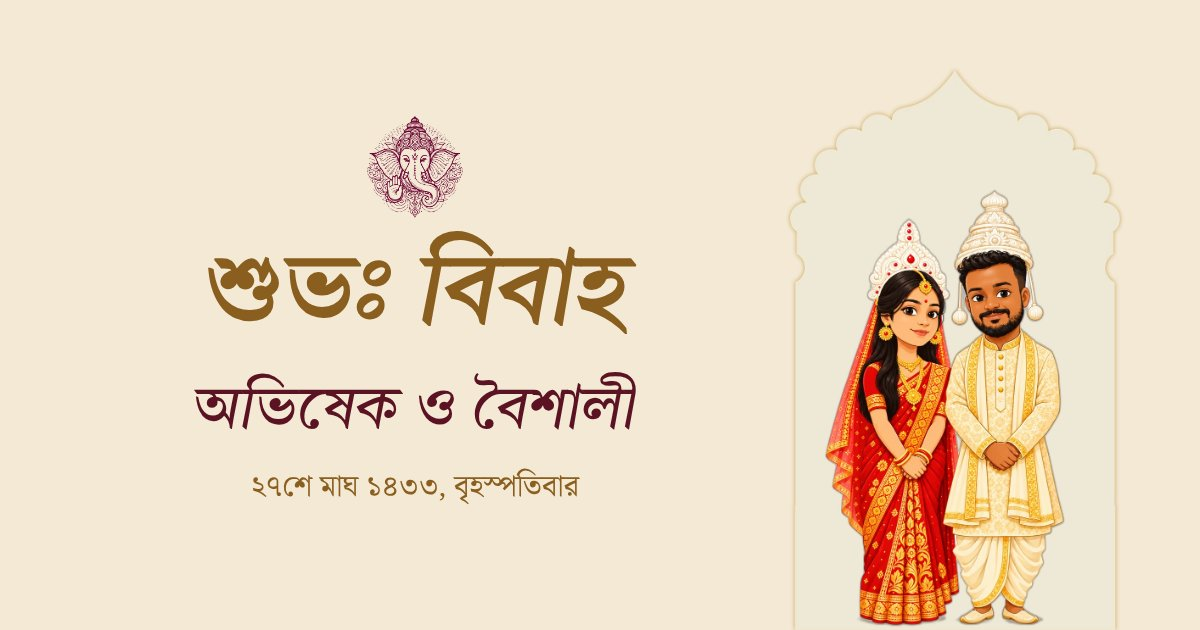
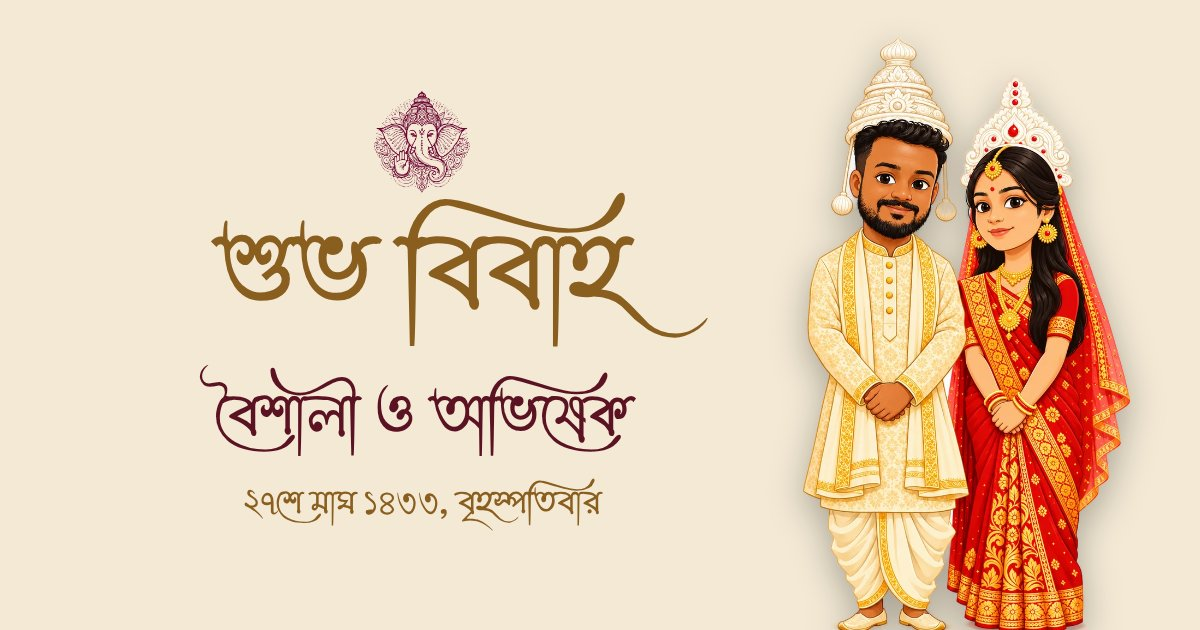
Review round 3: wording, dates, new couple picture, petal showers, seal burst
- শুভঃ → শুভ, আমার → আমাদের, new quote, বিবাহলগ্ন / Bibaha Lagna
- English shows the English date first, Bengali in brackets (and vice versa)
- প্রীতিভোজ = Banquet; bride card: বিবাহবাসর ও প্রীতিভোজ, বৈশালী ও অভিষেক
- Couple picture with groom left, bride right
- Seal tap: press, flash, sparkle and petal burst; petal shower again at the family panel
- Bride card: no glow at the top

Claude-Session: https://claude.ai/code/session_01A7U3bhfqdo6UgM5ft2nzAm

diff --git a/app.js b/app.js
@@ -11,13 +11,13 @@
       openHint: "সিলমোহরে ছুঁয়ে খুলুন",
       ganesh: "ওঁ শ্রী গণেশায় নমঃ",
       prajapati: "শ্রী শ্রী প্রজাপতয়ে নমঃ",
-      occasion: "শুভঃ বিবাহ",
+      occasion: "শুভ বিবাহ",
       familyTitle: "যাদের জন্য বাজবে সানাই&nbsp;।।",
       kalyaniyo: "কল্যাণীয়", kalyaniya: "কল্যাণীয়া",
       father: "পিতা", mother: "মাতা", brother: "ভ্রাতা",
       groomName: "অভিষেক দাস", groomFather: "শ্রী রবীন্দ্র নাথ দাস", groomMother: "শ্রীমতী অনিতা দাস",
       brideName: "বৈশালী কর", brideFather: "শ্রী বাবন কর", brideMother: "শ্রীমতী শিউলি কর", brideBrother: "কৌশিক কর",
-      quote: "দুটি প্রাণের মিলনে গড়বে নতুন পথ চলা,<br>হাসি আনন্দে ভরে উঠুক প্রতিটি দোলা।",
+      quote: "দুটি প্রাণের মিলনে গড়বে নতুন পথচলা,<br>হাসি আনন্দে ভরে উঠুক জীবনের প্রতিটি বেলা।",
       salutation: "সবিনয় নিবেদন,",
       nibedak: "নিবেদক",
       ritualTitle: "শুভ বিবাহের মুহূর্ত", rShubho: "শুভদৃষ্টি", rMala: "মালাবদল", rYagna: "সাত পাক ও যজ্ঞ", rSindoor: "সিঁদুর দান",
@@ -98,10 +98,17 @@
   function openInvitation() {
     if (opened) return;
     opened = true;
-    var steps = reduceMotion ? [0, 0, 0, 0] : [0, 380, 760, 1900];
+    var steps = reduceMotion ? [0, 0, 0, 0] : [160, 560, 940, 2100];
     document.getElementById("stage").classList.add("is-leaving");
     startMusic();
-    setTimeout(function () { envelope.classList.add("is-opening"); }, steps[0]);
+    try { if (navigator.vibrate) navigator.vibrate(15); } catch (e) {}
+    envelope.classList.add("is-pressed");
+    setTimeout(function () {
+      envelope.classList.remove("is-pressed");
+      envelope.classList.add("is-opening");
+      var r = envelope.querySelector(".seal").getBoundingClientRect();
+      if (window.FX) FX.burst(r.left + r.width / 2, r.top + r.height / 2, 1);
+    }, steps[0]);
     setTimeout(function () { envelope.classList.add("flap-behind"); }, steps[1]);
     setTimeout(function () { envelope.classList.add("card-out"); }, steps[2]);
     setTimeout(function () {
@@ -109,7 +116,7 @@
       document.body.classList.add("is-open");
       document.getElementById("card").removeAttribute("aria-hidden");
       window.scrollTo(0, 0);
-      petalShower();
+      if (window.FX) FX.shower(70);
       sizeCoin();
       document.getElementById("music").hidden = false;
       startReveals();
@@ -159,24 +166,6 @@
     if (document.hidden) bgm.pause(); else play();
   });
 
-  /* ---------------- Petals (once, on open) ---------------- */
-  function petalShower() {
-    if (reduceMotion) return;
-    var box = document.getElementById("petals");
-    var colors = ["#F2A93B", "#E8862A", "#C9A04E", "#A3182F", "#F6C451"];
-    for (var i = 0; i < 34; i++) {
-      var p = document.createElement("span");
-      p.className = "petal";
-      p.style.left = Math.random() * 100 + "vw";
-      p.style.background = colors[i % colors.length];
-      p.style.setProperty("--d", 5 + Math.random() * 4 + "s");
-      p.style.setProperty("--x", (Math.random() - 0.5) * 140 + "px");
-      p.style.setProperty("--r", 300 + Math.random() * 500 + "deg");
-      p.style.animationDelay = Math.random() * 1.6 + "s";
-      box.appendChild(p);
-    }
-    setTimeout(function () { box.innerHTML = ""; }, 11000);
-  }
 
   /* ---------------- Scroll reveals (each section once) ---------------- */
   var countedUp = false;
@@ -192,6 +181,7 @@
         en.target.classList.add("in");
         io.unobserve(en.target);
         if (en.target.id === "countdown") countUp();
+        if (en.target.classList.contains("family") && window.FX) FX.shower(36);
       });
     }, { threshold: 0.1, rootMargin: "0px 0px -50px 0px" });
     els.forEach(function (el) { io.observe(el); });
@@ -259,7 +249,7 @@
     var data = ctx.getImageData(0, 0, canvas.width, canvas.height).data;
     var step = Math.max(4, Math.round(6 * dpr)), cw = canvas.width, ch = canvas.height, total = 0, clear = 0;
     for (var y = 0; y < ch; y += step) for (var x = 0; x < cw; x += step) { total++; if (data[(y * cw + x) * 4 + 3] < 40) clear++; }
-    if (total && clear / total > 0.5) { revealed = true; box.classList.add("is-revealed"); burst(); }
+    if (total && clear / total > 0.5) { revealed = true; box.classList.add("is-revealed"); var br = box.getBoundingClientRect(); if (window.FX) FX.burst(br.left + br.width / 2, br.top + br.height / 2, .7); }
   }
   function pos(e) { var b = canvas.getBoundingClientRect(); return { x: e.clientX - b.left, y: e.clientY - b.top }; }
   var drawing = false;
@@ -277,25 +267,6 @@
   });
   window.addEventListener("resize", sizeCoin);
 
-  function burst() {
-    if (reduceMotion) return;
-    var b = box.getBoundingClientRect(), layer = document.getElementById("petals");
-    var colors = ["#F2A93B", "#C9A04E", "#A3182F", "#F6C451"];
-    for (var i = 0; i < 26; i++) {
-      var p = document.createElement("span");
-      p.className = "petal";
-      p.style.cssText = "top:" + (b.top + b.height / 2) + "px;left:" + (b.left + b.width / 2) + "px;background:" + colors[i % 4] +
-        ";animation:none;transition:transform 1.4s cubic-bezier(.15,.7,.3,1),opacity 1.4s";
-      layer.appendChild(p);
-      (function (el, a, d) {
-        requestAnimationFrame(function () { requestAnimationFrame(function () {
-          el.style.transform = "translate(" + Math.cos(a) * d + "px," + (Math.sin(a) * d + 60) + "px) rotate(" + (a * 300) + "deg)";
-          el.style.opacity = "0";
-        }); });
-        setTimeout(function () { el.remove(); }, 1600);
-      })(p, Math.random() * Math.PI * 2, 90 + Math.random() * 110);
-    }
-  }
 
   /* ---------------- Countdown ---------------- */
   var target = new Date(W.event.countdownTo).getTime();

diff --git a/fx.js b/fx.js
@@ -1,0 +1,123 @@
+/* Petals and sparkles on one full-screen canvas.
+   FX.shower(count)  – petals drifting down from the top
+   FX.burst(x, y, k) – sparkles + petals flying out from a point (viewport px) */
+(function () {
+  "use strict";
+  var reduce = window.matchMedia("(prefers-reduced-motion: reduce)").matches;
+  var cv = document.createElement("canvas");
+  cv.className = "fx";
+  cv.setAttribute("aria-hidden", "true");
+  document.addEventListener("DOMContentLoaded", function () { document.body.appendChild(cv); });
+  var ctx = cv.getContext("2d"), dpr = 1, W = 0, H = 0, parts = [], running = false, last = 0;
+
+  function size() {
+    dpr = Math.min(window.devicePixelRatio || 1, 2);
+    W = window.innerWidth; H = window.innerHeight;
+    cv.width = W * dpr; cv.height = H * dpr;
+    ctx.setTransform(dpr, 0, 0, dpr, 0, 0);
+  }
+  size();
+  window.addEventListener("resize", size);
+
+  // marigold (orange, yellow), red rose, white rajanigandha
+  var KINDS = [
+    { w: 1, a: "#F7A21B", b: "#E06A0E", shape: "marigold" },
+    { w: 1, a: "#FFD34E", b: "#F0A20E", shape: "marigold" },
+    { w: .8, a: "#D6243A", b: "#8E1022", shape: "rose" },
+    { w: .45, a: "#FFFDF6", b: "#E9E1CC", shape: "rose" }
+  ];
+  function pick() {
+    var t = 0, r = Math.random() * 3.25;
+    for (var i = 0; i < KINDS.length; i++) { t += KINDS[i].w; if (r <= t) return KINDS[i]; }
+    return KINDS[0];
+  }
+  function petal(x, y, vx, vy, delay) {
+    var k = pick();
+    parts.push({ t: "p", k: k, x: x, y: y, vx: vx, vy: vy, s: 6 + Math.random() * 7,
+      rot: Math.random() * 6.28, vr: (Math.random() - .5) * 3, flip: Math.random() * 6.28, vf: 2 + Math.random() * 4,
+      sway: Math.random() * 6.28, life: 0, max: 7 + Math.random() * 4, delay: delay || 0 });
+  }
+  function sparkle(x, y, vx, vy) {
+    parts.push({ t: "s", x: x, y: y, vx: vx, vy: vy, s: 3 + Math.random() * 6, life: 0, max: .7 + Math.random() * .7,
+      tw: Math.random() * 6.28, c: Math.random() < .75 ? "#FFE7A3" : "#FFFFFF", delay: 0 });
+  }
+
+  function drawPetal(p) {
+    var sc = Math.cos(p.flip);                       // 3D tumble: squash on one axis
+    ctx.save();
+    ctx.translate(p.x, p.y); ctx.rotate(p.rot); ctx.scale(1, Math.max(.15, Math.abs(sc)));
+    var g = ctx.createLinearGradient(0, -p.s, 0, p.s);
+    g.addColorStop(0, sc > 0 ? p.k.a : p.k.b); g.addColorStop(1, sc > 0 ? p.k.b : p.k.a);
+    ctx.fillStyle = g;
+    ctx.beginPath();
+    if (p.k.shape === "marigold") {                  // frilled petal
+      ctx.moveTo(0, p.s);
+      ctx.quadraticCurveTo(-p.s * .9, p.s * .2, -p.s * .55, -p.s * .7);
+      ctx.lineTo(-p.s * .25, -p.s * .45); ctx.lineTo(0, -p.s * .85); ctx.lineTo(p.s * .25, -p.s * .45);
+      ctx.lineTo(p.s * .55, -p.s * .7);
+      ctx.quadraticCurveTo(p.s * .9, p.s * .2, 0, p.s);
+    } else {                                          // rose / rajanigandha petal
+      ctx.moveTo(0, p.s);
+      ctx.bezierCurveTo(-p.s, p.s * .3, -p.s * .7, -p.s, 0, -p.s * .8);
+      ctx.bezierCurveTo(p.s * .7, -p.s, p.s, p.s * .3, 0, p.s);
+    }
+    ctx.fill();
+    ctx.restore();
+  }
+  function drawSparkle(p, alpha) {
+    var r = p.s * (.6 + .4 * Math.abs(Math.sin(p.tw)));
+    ctx.save(); ctx.translate(p.x, p.y); ctx.globalAlpha = alpha;
+    ctx.fillStyle = p.c; ctx.shadowColor = "rgba(255,210,120,.9)"; ctx.shadowBlur = 8;
+    ctx.beginPath();
+    ctx.moveTo(0, -r); ctx.quadraticCurveTo(0, 0, r, 0); ctx.quadraticCurveTo(0, 0, 0, r);
+    ctx.quadraticCurveTo(0, 0, -r, 0); ctx.quadraticCurveTo(0, 0, 0, -r);
+    ctx.fill(); ctx.restore();
+  }
+
+  function frame(now) {
+    var dt = Math.min(.05, (now - last) / 1000 || 0); last = now;
+    ctx.clearRect(0, 0, W, H);
+    for (var i = parts.length - 1; i >= 0; i--) {
+      var p = parts[i];
+      if (p.delay > 0) { p.delay -= dt; continue; }
+      p.life += dt;
+      if (p.t === "p") {
+        p.vx *= .985; p.vy += (60 - p.vy) * .6 * dt;  // settle into a gentle fall
+        p.sway += dt * 1.6;
+        p.x += (p.vx + Math.sin(p.sway) * 22) * dt; p.y += p.vy * dt;
+        p.rot += p.vr * dt; p.flip += p.vf * dt;
+        var fade = p.life > p.max - 1 ? Math.max(0, p.max - p.life) : 1;
+        ctx.globalAlpha = .95 * fade; drawPetal(p); ctx.globalAlpha = 1;
+        if (p.life > p.max || p.y > H + 30) parts.splice(i, 1);
+      } else {
+        p.vx *= .92; p.vy = p.vy * .92 + 30 * dt; p.x += p.vx * dt; p.y += p.vy * dt; p.tw += dt * 14;
+        var a = 1 - p.life / p.max;
+        if (a <= 0) { parts.splice(i, 1); continue; }
+        drawSparkle(p, a);
+      }
+    }
+    if (parts.length) requestAnimationFrame(frame); else { running = false; ctx.clearRect(0, 0, W, H); }
+  }
+  function run() { if (!running) { running = true; last = performance.now(); requestAnimationFrame(frame); } }
+
+  window.FX = {
+    shower: function (n) {
+      if (reduce) return;
+      for (var i = 0; i < n; i++) petal(Math.random() * W, -20 - Math.random() * 60, (Math.random() - .5) * 30, 40 + Math.random() * 50, Math.random() * 2.6);
+      run();
+    },
+    burst: function (x, y, k) {
+      if (reduce) return;
+      k = k || 1;
+      for (var i = 0; i < 40 * k; i++) {
+        var a = Math.random() * 6.28, v = 160 + Math.random() * 260;
+        sparkle(x, y, Math.cos(a) * v, Math.sin(a) * v - 40);
+      }
+      for (var j = 0; j < 30 * k; j++) {
+        var b = Math.random() * 6.28, u = 120 + Math.random() * 220;
+        petal(x, y, Math.cos(b) * u, Math.sin(b) * u - 120, 0);
+      }
+      run();
+    }
+  };
+})();

diff --git a/config.js b/config.js
@@ -8,38 +8,40 @@ window.WEDDING = {
   },
   "text": {
     "bn": {
-      "dbTitle": "শুভঃ বিবাহ",
+      "dbTitle": "শুভ বিবাহ",
       "dbWeekday": "বৃহস্পতিবার",
       "dbDay": "২৭",
       "dbSuffix": "শে",
       "dbMonth": "মাঘ",
       "dbYear": "১৪৩৩",
       "dbGreg": "(ইং ১১ই ফেব্রুয়ারি ২০২৭)",
-      "dbLagna": "শুভ লগ্ন: সন্ধ্যা ৫টা ২৬ মিঃ গতে<br>রাত্রি ৯টা ১৭ মিঃ মধ্যে",
-      "pageTitle": "অভিষেক ও বৈশালী | শুভঃ বিবাহ",
-      "letter": "আগামী ২৭শে মাঘ ১৪৩৩, বৃহস্পতিবার (ইংরেজি ১১ই ফেব্রুয়ারি ২০২৭) আমার কন্যা কল্যাণীয়া <strong>বৈশালী</strong>-র সহিত মালবাজার নিবাসী শ্রী রবীন্দ্র নাথ দাস মহাশয়ের পুত্র কল্যাণীয় <strong>অভিষেক</strong>-এর শুভ বিবাহ স্থির হইয়াছে। এই শুভ অনুষ্ঠানে আপনি সবান্ধবে উপস্থিত থাকিয়া নবদম্পতিকে আশীর্বাদ করিলে বাধিত হইব।",
+      "dbLagna": "বিবাহলগ্ন: সন্ধ্যা ৫টা ২৬ মিঃ গতে<br>রাত্রি ৯টা ১৭ মিঃ মধ্যে",
+      "pageTitle": "বৈশালী ও অভিষেক | শুভ বিবাহ",
+      "together": "বৈশালী ও অভিষেক",
+      "letter": "আগামী ২৭শে মাঘ ১৪৩৩, বৃহস্পতিবার (ইংরেজি ১১ই ফেব্রুয়ারি ২০২৭) আমাদের কন্যা কল্যাণীয়া <strong>বৈশালী</strong>-র সহিত মালবাজার নিবাসী শ্রী রবীন্দ্র নাথ দাস মহাশয়ের পুত্র কল্যাণীয় <strong>অভিষেক</strong>-এর শুভ বিবাহ স্থির হইয়াছে। এই শুভ অনুষ্ঠানে আপনি সবান্ধবে উপস্থিত থাকিয়া নবদম্পতিকে আশীর্বাদ করিলে বাধিত হইব।",
       "hosts": "শ্রী বাবন কর<br>শ্রীমতী শিউলি কর",
       "hostPlace": "আদর্শ পল্লী, বানারহাট",
-      "venueEvent": "শুভ বিবাহ ও প্রীতিভোজ",
-      "venueWhen": "২৭শে মাঘ ১৪৩৩, বৃহস্পতিবার<br>লগ্ন: সন্ধ্যা ৫টা ২৬ মিঃ গতে রাত্রি ৯টা ১৭ মিঃ মধ্যে",
+      "venueEvent": "বিবাহবাসর ও প্রীতিভোজ",
+      "venueWhen": "২৭শে মাঘ ১৪৩৩, বৃহস্পতিবার<br><span lang=\"en\">(Thursday, 11 February 2027)</span><br>বিবাহলগ্ন: সন্ধ্যা ৫টা ২৬ মিঃ গতে রাত্রি ৯টা ১৭ মিঃ মধ্যে",
       "venueName": "নিজ বাসভবন",
       "venueAddr": "আদর্শ পল্লী, ৩ নং কলোনি,<br>পোঃ বানারহাট, জেলা জলপাইগুড়ি – ৭৩৫২০২"
     },
     "en": {
       "dbTitle": "Shubho Bibaho",
       "dbWeekday": "Thursday",
-      "dbDay": "27",
+      "dbDay": "11",
       "dbSuffix": "th",
-      "dbMonth": "Magh",
-      "dbYear": "1433",
-      "dbGreg": "(11 February 2027)",
-      "dbLagna": "Lagna: 5:26 pm to 9:17 pm",
-      "pageTitle": "Avishek & Baishali | Wedding",
-      "letter": "On Thursday, 27 Magh 1433 (11 February 2027), our daughter <strong>Baishali</strong> will be married to <strong>Avishek</strong>, son of Sri Rabindra Nath Das of Malbazar. We would be honoured if you join us with your family and bless the couple.",
+      "dbMonth": "February",
+      "dbYear": "2027",
+      "dbGreg": "(২৭শে মাঘ ১৪৩৩, বৃহস্পতিবার)",
+      "dbLagna": "Bibaha Lagna: 5:26 pm to 9:17 pm",
+      "pageTitle": "Baishali & Avishek | Wedding",
+      "together": "Baishali &amp; Avishek",
+      "letter": "On Thursday, 11 February 2027 (২৭শে মাঘ ১৪৩৩), our daughter <strong>Baishali</strong> will be married to <strong>Avishek</strong>, son of Sri Rabindra Nath Das of Malbazar. We would be honoured if you join us with your family and bless the couple.",
       "hosts": "Sri Baban Kar<br>Smt. Shiuli Kar",
       "hostPlace": "Adarsha Pally, Banarhat",
-      "venueEvent": "Wedding &amp; dinner",
-      "venueWhen": "Thursday, 11 February 2027<br>Lagna 5:26 pm to 9:17 pm",
+      "venueEvent": "Wedding and Banquet",
+      "venueWhen": "Thursday, 11 February 2027<br>(২৭শে মাঘ ১৪৩৩, বৃহস্পতিবার)<br>Bibaha Lagna: 5:26 pm to 9:17 pm",
       "venueName": "Our residence",
       "venueAddr": "Adarsha Pally, 3rd No. Colony,<br>P.O. Banarhat, Jalpaiguri 735202"
     }

diff --git a/index.html b/index.html
@@ -30,7 +30,7 @@
     <div class="env-card" aria-hidden="true">
       <img class="only-groom" src="img/ganesh-line.webp" alt="">
       <img class="only-bride" src="img/ganesh-gold.webp" alt="">
-      <span class="env-card-names">অভিষেক ও বৈশালী</span>
+      <span class="env-card-names" data-i="together">অভিষেক ও বৈশালী</span>
     </div>
     <svg class="env-pocket" viewBox="0 0 400 280" preserveAspectRatio="none" aria-hidden="true">
       <defs>
@@ -51,6 +51,7 @@
       <p class="env-title">শ্রী শ্রী প্রজাপতয়ে নমঃ</p>
     </div>
     <div class="env-alpona" data-decor="alpona" aria-hidden="true"></div>
+    <div class="seal-flash" aria-hidden="true"></div>
     <div class="seal" aria-hidden="true">
       <img class="seal-l" src="img/wax-stamp.webp" alt="">
       <img class="seal-r" src="img/wax-stamp.webp" alt="">
@@ -85,13 +86,13 @@
   </header>
 
   <!-- 2. Title -->
-  <h1 class="occasion" data-i="occasion">শুভঃ বিবাহ</h1>
+  <h1 class="occasion" data-i="occasion">শুভ বিবাহ</h1>
 
   <!-- 3. Date reveal -->
   <section class="datebox-wrap rv" aria-label="বিবাহের তারিখ">
     <div class="datebox" id="coin">
       <div class="datebox-face">
-        <p class="db-title" data-i="dbTitle">শুভঃ বিবাহ</p>
+        <p class="db-title" data-i="dbTitle">শুভ বিবাহ</p>
         <div class="db-row">
           <span class="db-side" data-i="dbWeekday">বৃহস্পতিবার</span>
           <span class="db-day"><b data-i="dbDay">২৭</b><small data-i="dbSuffix">শে</small></span>
@@ -119,7 +120,7 @@
 
   <figure class="couple rv">
     <img class="couple-halo" src="img/mandala.webp" alt="">
-    <img class="couple-img" src="img/couple.webp" alt="অভিষেক ও বৈশালী" width="700" height="1049">
+    <img class="couple-img" src="img/couple.webp" alt="অভিষেক ও বৈশালী" width="599" height="1100">
   </figure>
 
   <!-- 6. Families -->
@@ -178,7 +179,7 @@
   <!-- 7–8. Quote and letter -->
   <section class="letter kantha rv">
     <img class="motif motif-paan" src="img/art/paan.webp" alt="" width="403" height="420" loading="lazy">
-    <blockquote class="quote" data-i="quote">দুটি প্রাণের মিলনে গড়বে নতুন পথ চলা,<br>হাসি আনন্দে ভরে উঠুক প্রতিটি দোলা।</blockquote>
+    <blockquote class="quote" data-i="quote">দুটি প্রাণের মিলনে গড়বে নতুন পথচলা,<br>হাসি আনন্দে ভরে উঠুক জীবনের প্রতিটি বেলা।</blockquote>
     <p class="salutation" data-i="salutation">সবিনয় নিবেদন,</p>
     <p class="letter-body" data-i="letter"></p>
   </section>
@@ -231,6 +232,7 @@
 </button>
 <audio id="bgm" loop preload="none"></audio>
 <div class="petals" id="petals" aria-hidden="true"></div>
+<script src="fx.js"></script>
 <script src="decor.js"></script>
 <script src="app.js"></script>
 </body>

diff --git a/styles.css b/styles.css
@@ -411,3 +411,21 @@ html[data-theme="bride"] .motif-paan{ filter:brightness(0) saturate(100%) invert
 html[data-theme="bride"] .couple-img{ filter:drop-shadow(0 0 .8px rgba(243,233,213,.45)) drop-shadow(0 12px 16px rgba(0,0,0,.35)); }
 html[data-theme="bride"] .motif-fish, html[data-theme="bride"] .motif-palki{ filter:drop-shadow(0 0 .8px rgba(243,233,213,.45)) drop-shadow(0 6px 10px rgba(0,0,0,.25)); }
 .om{ box-shadow:0 0 0 2px var(--gold-light), 0 0 10px rgba(232,205,134,.25); }
+
+/* ---------- Review round 3 ---------- */
+/* bride card: no glow at the top */
+html[data-theme="bride"] .card{ background:var(--noise), var(--card); }
+html[data-theme="bride"] .occasion{ text-shadow:none; }
+html[data-theme="bride"]{ --page-glow:transparent; }
+/* new couple picture */
+.couple{ aspect-ratio:599/1100; width:min(270px,78%); }
+/* English date in a Bengali line */
+.venue-when span[lang="en"]{ font-family:"Cormorant Garamond",serif; font-size:1.1em; }
+/* petals & sparkles canvas */
+.fx{ position:fixed; inset:0; width:100%; height:100%; pointer-events:none; z-index:40; }
+/* seal press + flash */
+.envelope.is-pressed .seal{ transform:translate(-50%,-50%) scale(.9); transition:transform .12s ease; }
+.seal-flash{ position:absolute; left:50%; top:59%; width:70%; aspect-ratio:1; transform:translate(-50%,-50%) scale(.2); border-radius:50%; z-index:7;
+  background:radial-gradient(circle, rgba(255,240,200,.95), rgba(255,210,120,.45) 35%, transparent 70%); opacity:0; pointer-events:none; }
+.envelope.is-opening .seal-flash{ animation:sealflash .7s ease-out forwards; }
+@keyframes sealflash{ 0%{ opacity:0; transform:translate(-50%,-50%) scale(.2); } 25%{ opacity:1; } 100%{ opacity:0; transform:translate(-50%,-50%) scale(1.6); } }
